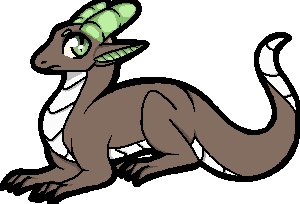
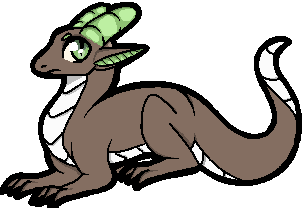
changes
новые изменённые модельки дракона, убрал границы, добавил цветовую палитру, прочие декоративные изменения

diff --git a/style.css b/style.css
@@ -1,20 +1,24 @@
+@import url('https://fonts.googleapis.com/css2?family=Montserrat&family=Montserrat+Alternates:wght@300&display=swap');
+
 body {
     margin: 0;
+    color: #251605;
+    font-family: 'Montserrat', sans-serif;
 }
 
 main {
+  background-color: #DCE2BD;
   width: 1000px;
   height: auto;
   margin: 0 auto;
   padding: 8px;
-  border: 2px solid black;  
+  border: 4px solid #8E9B90;  
   display: flex;
   flex-direction: row;
 }
 
 #field {
     position: relative;
-    border: 2px solid black;  
     width: 60%;
     height: 500px;
     margin-right: 8px;
@@ -28,8 +32,8 @@ main {
     top: 300px;
     left: 300px;
 
-    width: 300px;
-    height: 204px;
+    width: 306px;
+    height: 206px;
     background-image: url(pics/Sobaka.png);
     background-color: transparent;
     border: none; 
@@ -41,11 +45,28 @@ main {
 }
 
 #shop {
-    border: 2px solid black;  
     width: 40%;
+    background-color: #B6C4A2;
+
     display: flex;
     flex-direction: column;
     align-items: center;
+}
+
+#shop_descr {
+    display: flex;
+    justify-content: space-between;
+
+    width: 97.5%;
+    padding: 5px;
+}
+
+h1, h2, h3 {
+    font-family: 'Montserrat Alternates', sans-serif;
+}
+
+p {
+    font-family: 'Montserrat', sans-serif;
 }
 
 .shop_card {
@@ -57,13 +78,20 @@ main {
     margin-bottom: 0;
     padding: 5px;
     
-    border: 1px solid black;
+    background-color: #DCE2BD;
     width: 95%;
     height: 100px;
 }
 
 .buy {
-    width: 80px;
-    height: 80px;
+    border-radius: 50%;
+    min-width: 80px;
+    min-height: 80px;
+    border: none;
+}
+
+.buy:hover {
+    box-shadow: 0px 0px 10px 5px rgb(246, 255, 232, 0.4);
+
 }
 

diff --git a/index.html b/index.html
@@ -13,19 +13,23 @@
             <button id="dragon"></button>
         </div>
         <div id="shop">
+            <div id="shop_descr">
+                <div class="shop_lines"><h2>МАГАЗИН</h2></div>
+                <div class="shop_lines"><p>0 <img src="pics/currency.png"></p></div>
+            </div>
             <div class="shop_card">
                 <div>
                     <h3>Автоматическая чесалка</h5>
                     <p>Пассивный прирост любви</p>
                 </div>
-                <button class="buy">купить<br>0<img src="pics/currency.png"></button>
+                <button class="buy">0<img src="pics/currency.png"></button>
             </div>
             <div class="shop_card">
                 <div>
                     <h3>Чесалка получше</h5>
                     <p>Увеличивает количество любви за клик</p>
                 </div>
-                <button class="buy">купить<br>0<img src="pics/currency.png"></button>
+                <button class="buy">0<img src="pics/currency.png"></button>
             </div>
         </div>
     </main>
